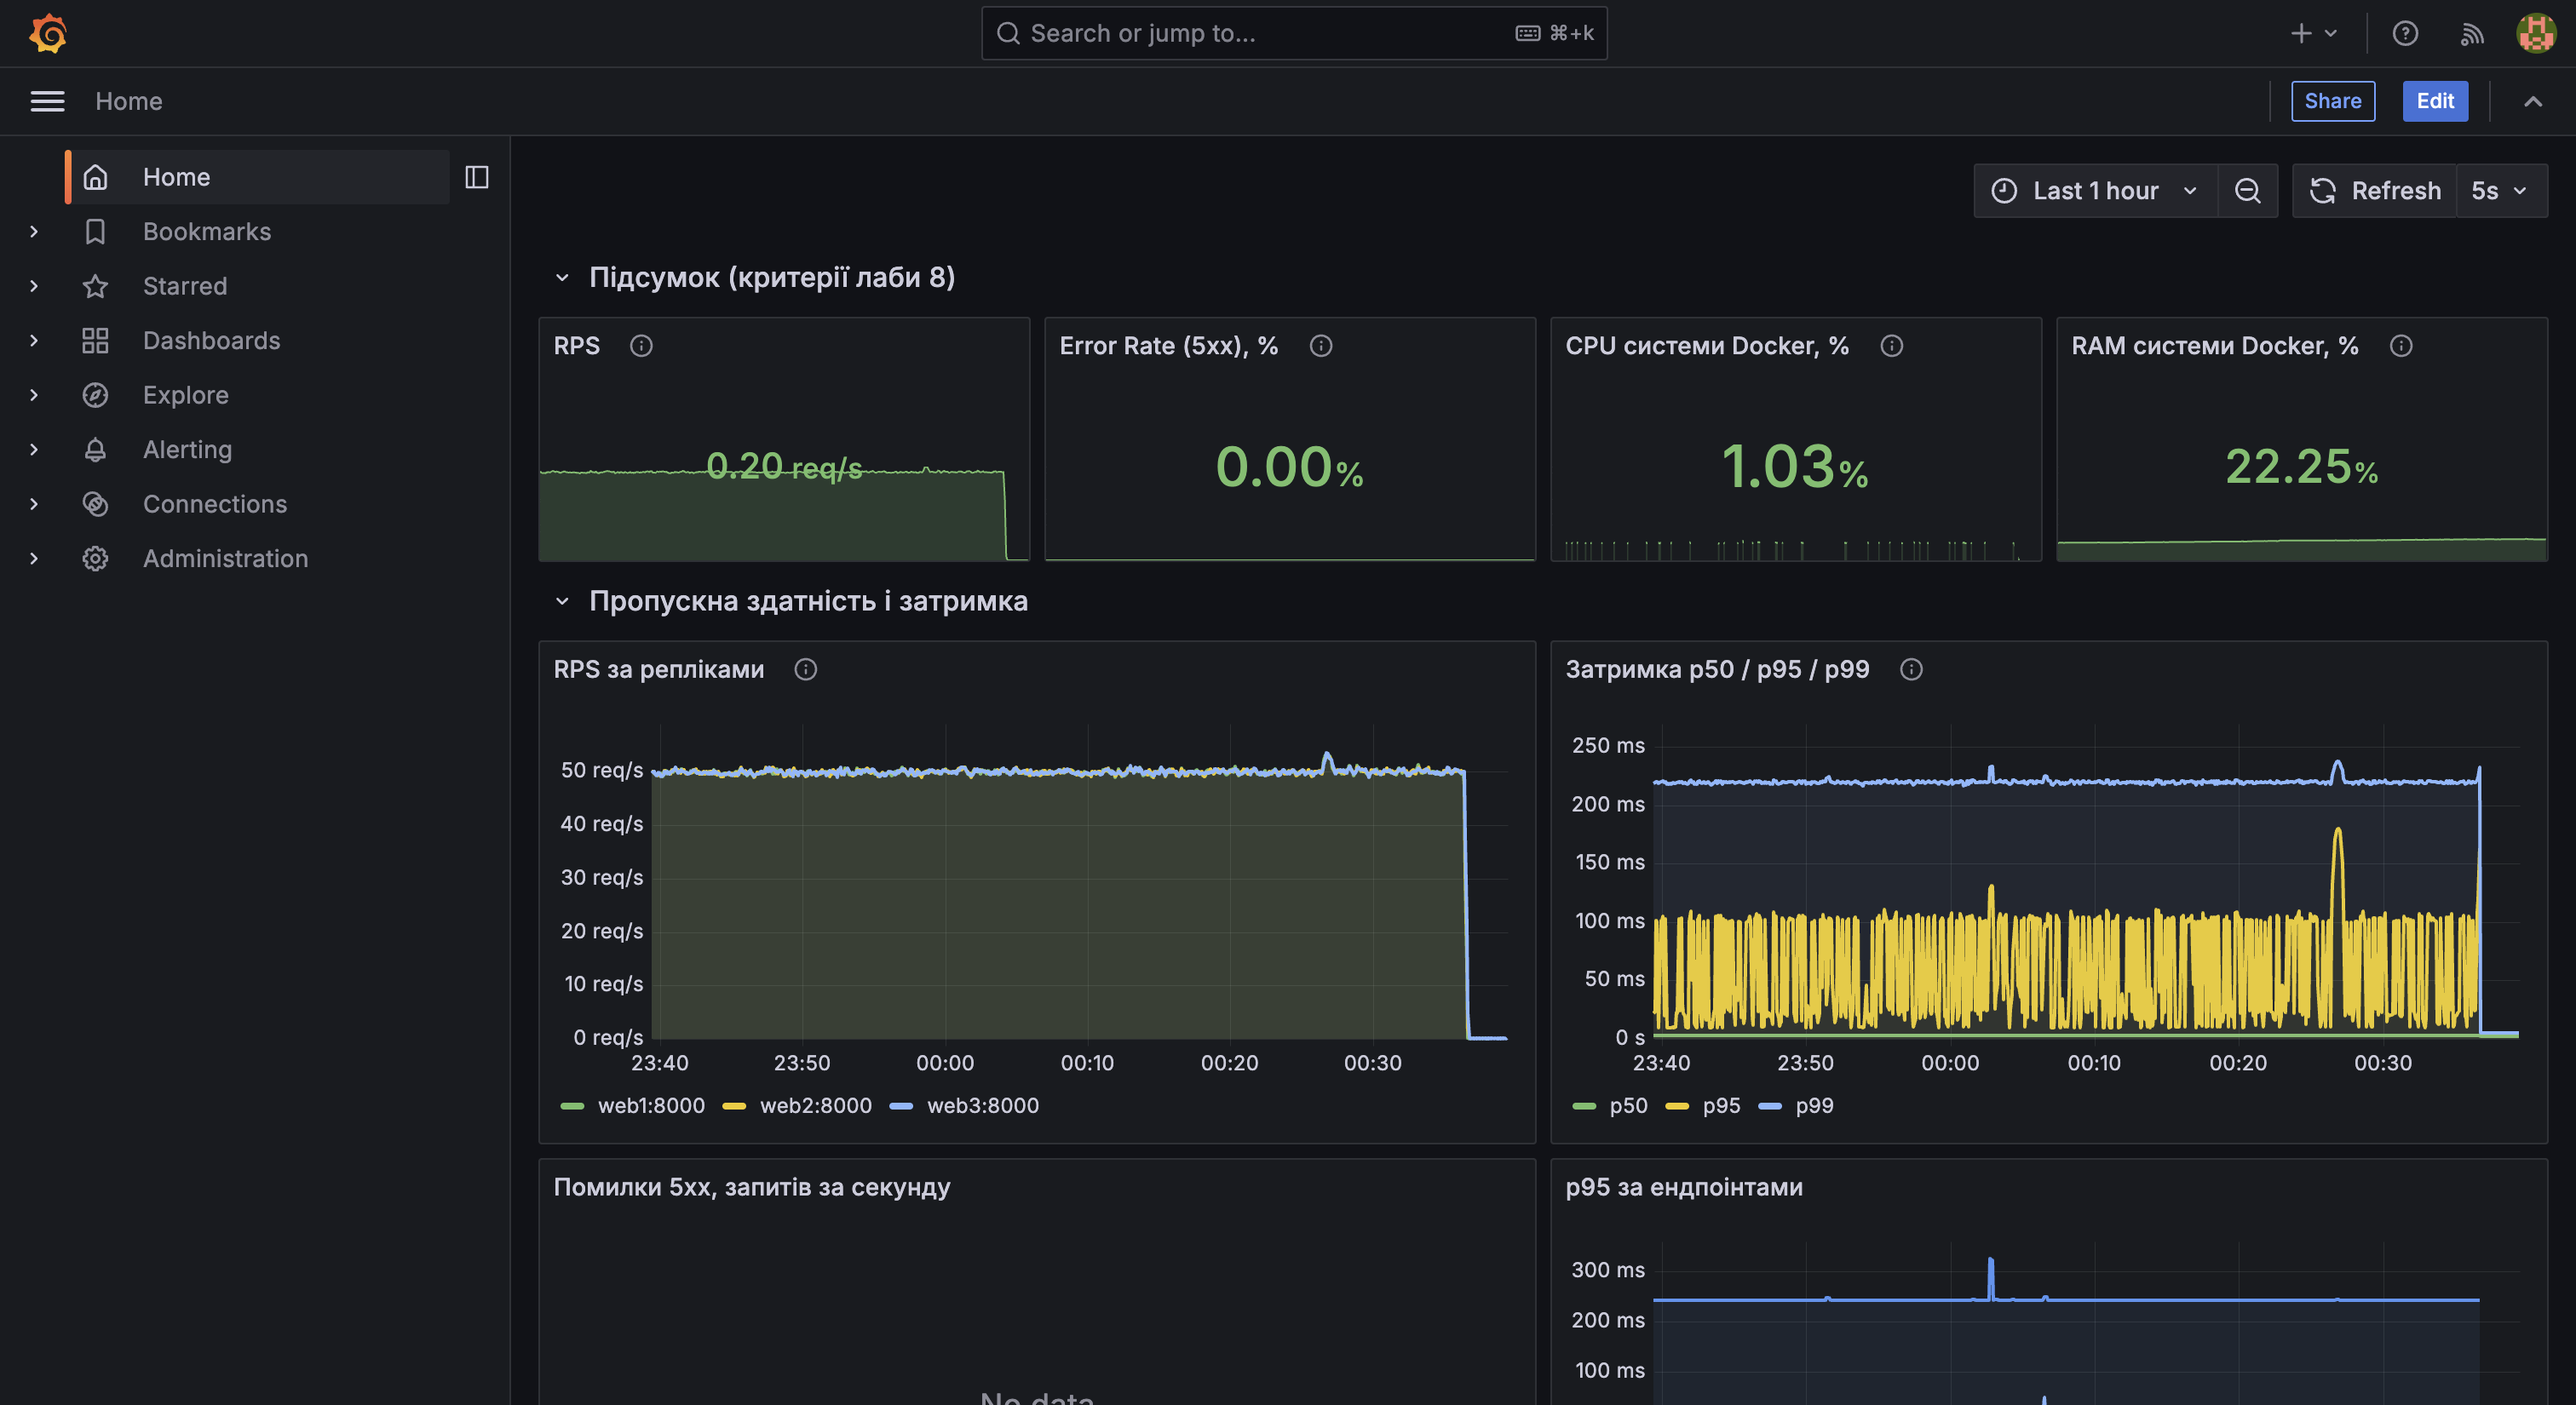
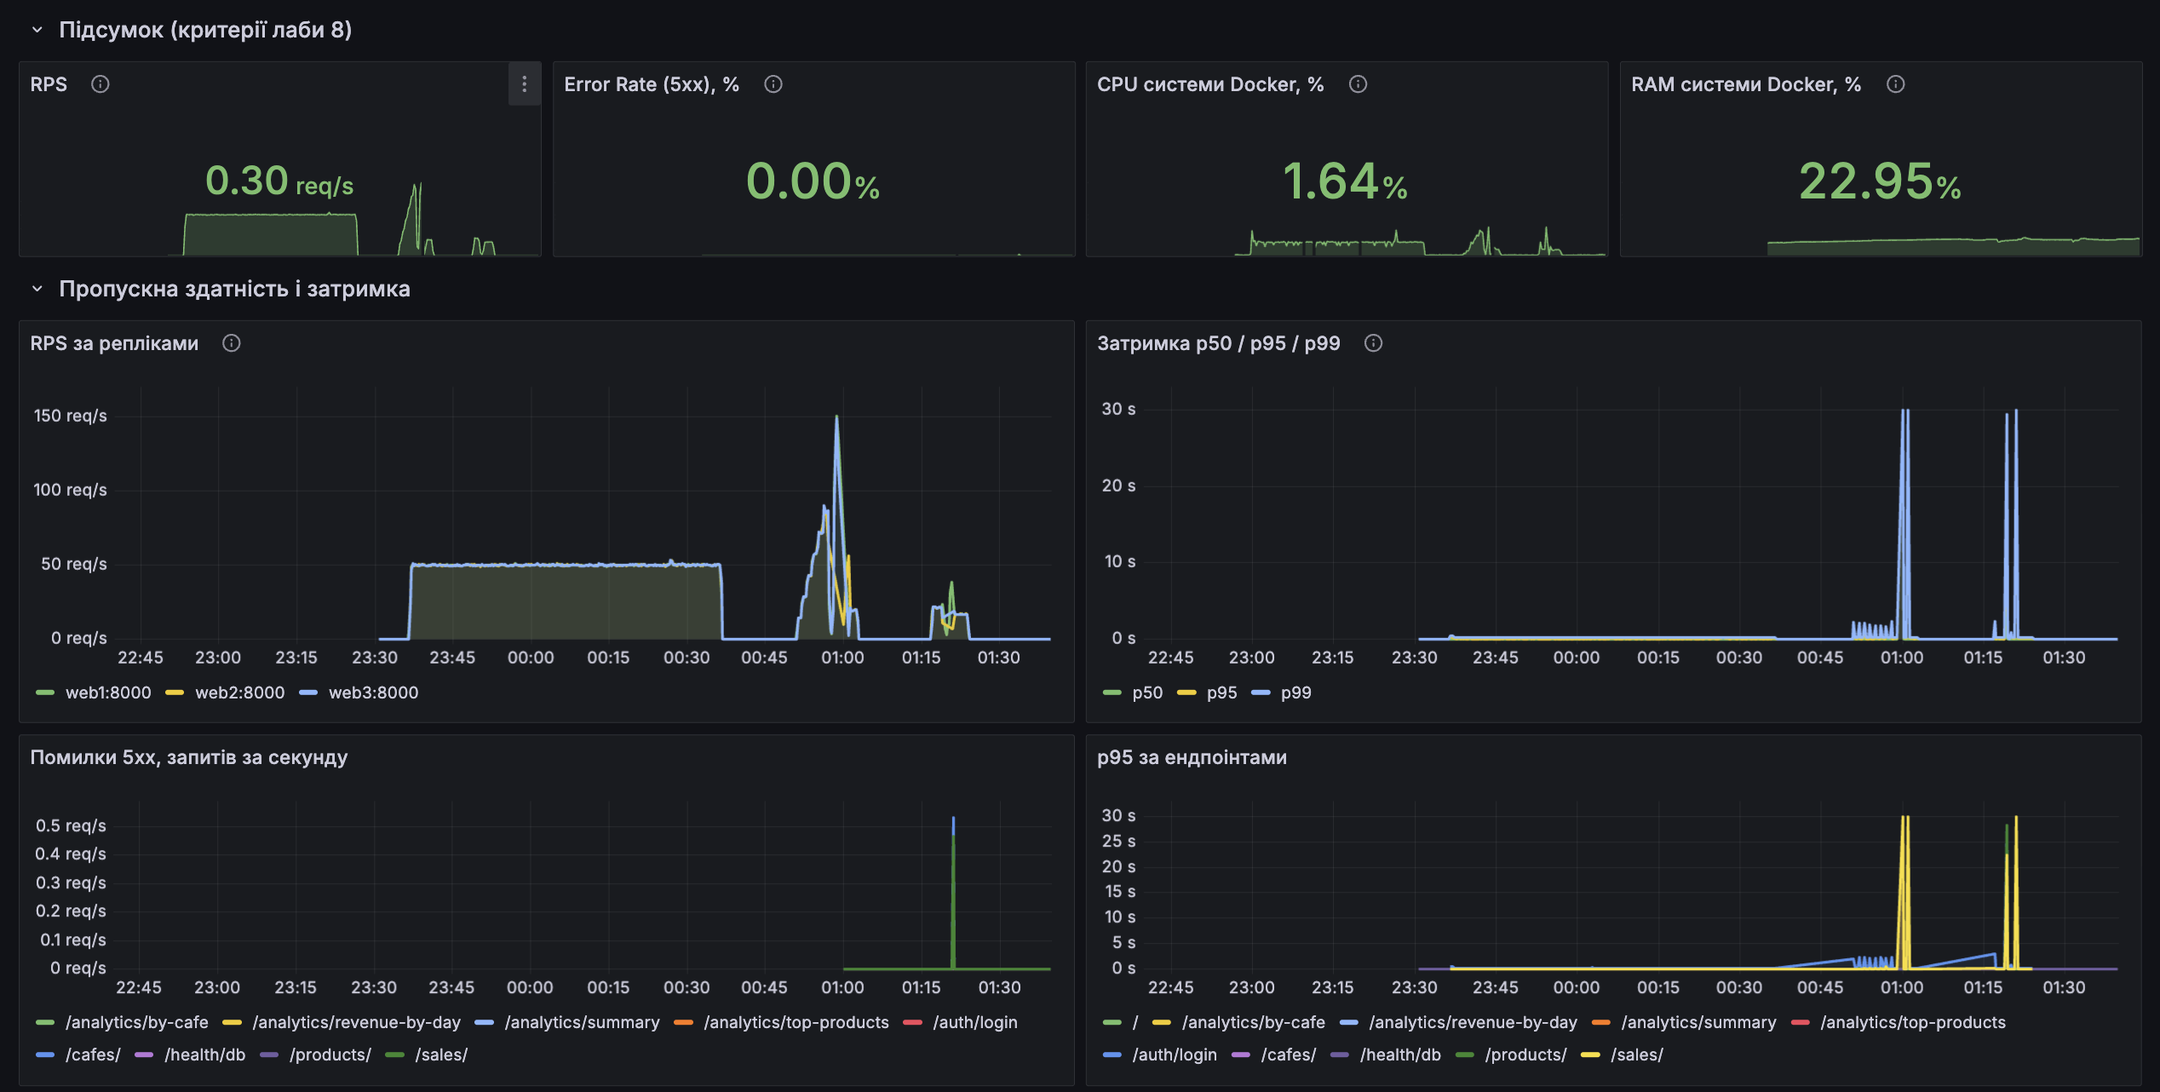
docs: add Grafana dashboard screenshots to lab 8 results

diff --git a/README.md b/README.md
@@ -900,7 +900,19 @@ RAM:
 
 #### Дашборд Grafana
 
-Сюди додається скриншот підсумкового дашборда за період soak-тесту.
+Дашборд «Cafe POS: стабільність» за період усіх тестів лаби 8: годинний soak-тест на 350 користувачах, потім покроковий і раптовий стрес-тести. Верхні плитки показують останнє значення, тому після завершення тесту RPS у плитці близький до нуля.
+
+Пропускна здатність, затримка і помилки. Soak-тест іде рівно, а під час стресу видно обвал RPS, ріст затримки до 30 с і помилки 5xx:
+
+![Дашборд Grafana: пропускна здатність і затримка](docs/lab8/grafana.png)
+
+Ресурси. CPU системи під час soak далеко від порога 80%, пам'ять реплік пласка. Короткий пік CPU близько 80% це спайк-тест:
+
+![Дашборд Grafana: ресурси](docs/lab8/grafana_2.png)
+
+Підключення до БД, відкриті сокети, кеш. Під час стресу пул підключень двічі впирається в 40 (це 20 основних і 20 додаткових), це і є причина зламу. Після стресу зайняті підключення повертаються до нуля:
+
+![Дашборд Grafana: підключення і кеш](docs/lab8/grafana_3.png)
 
 ## Користувачі, ролі, розмежування доступу
 
